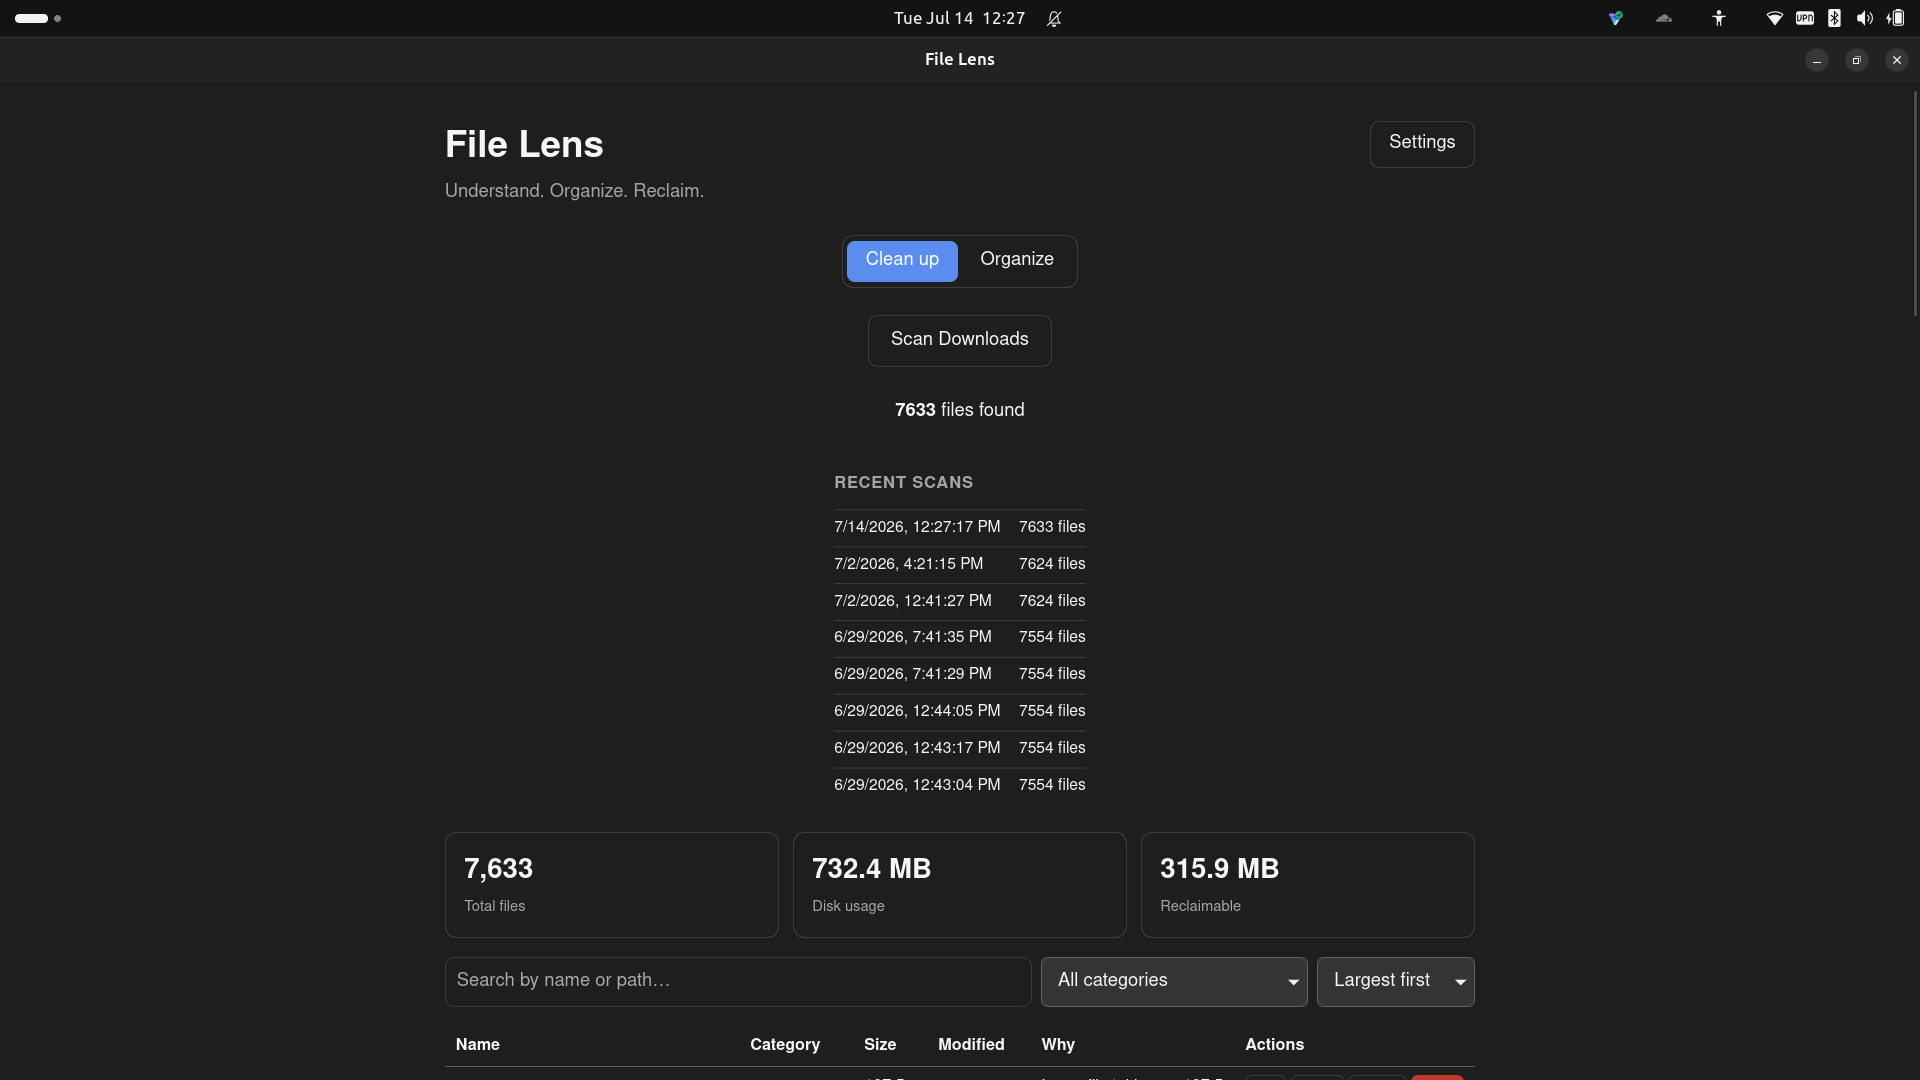
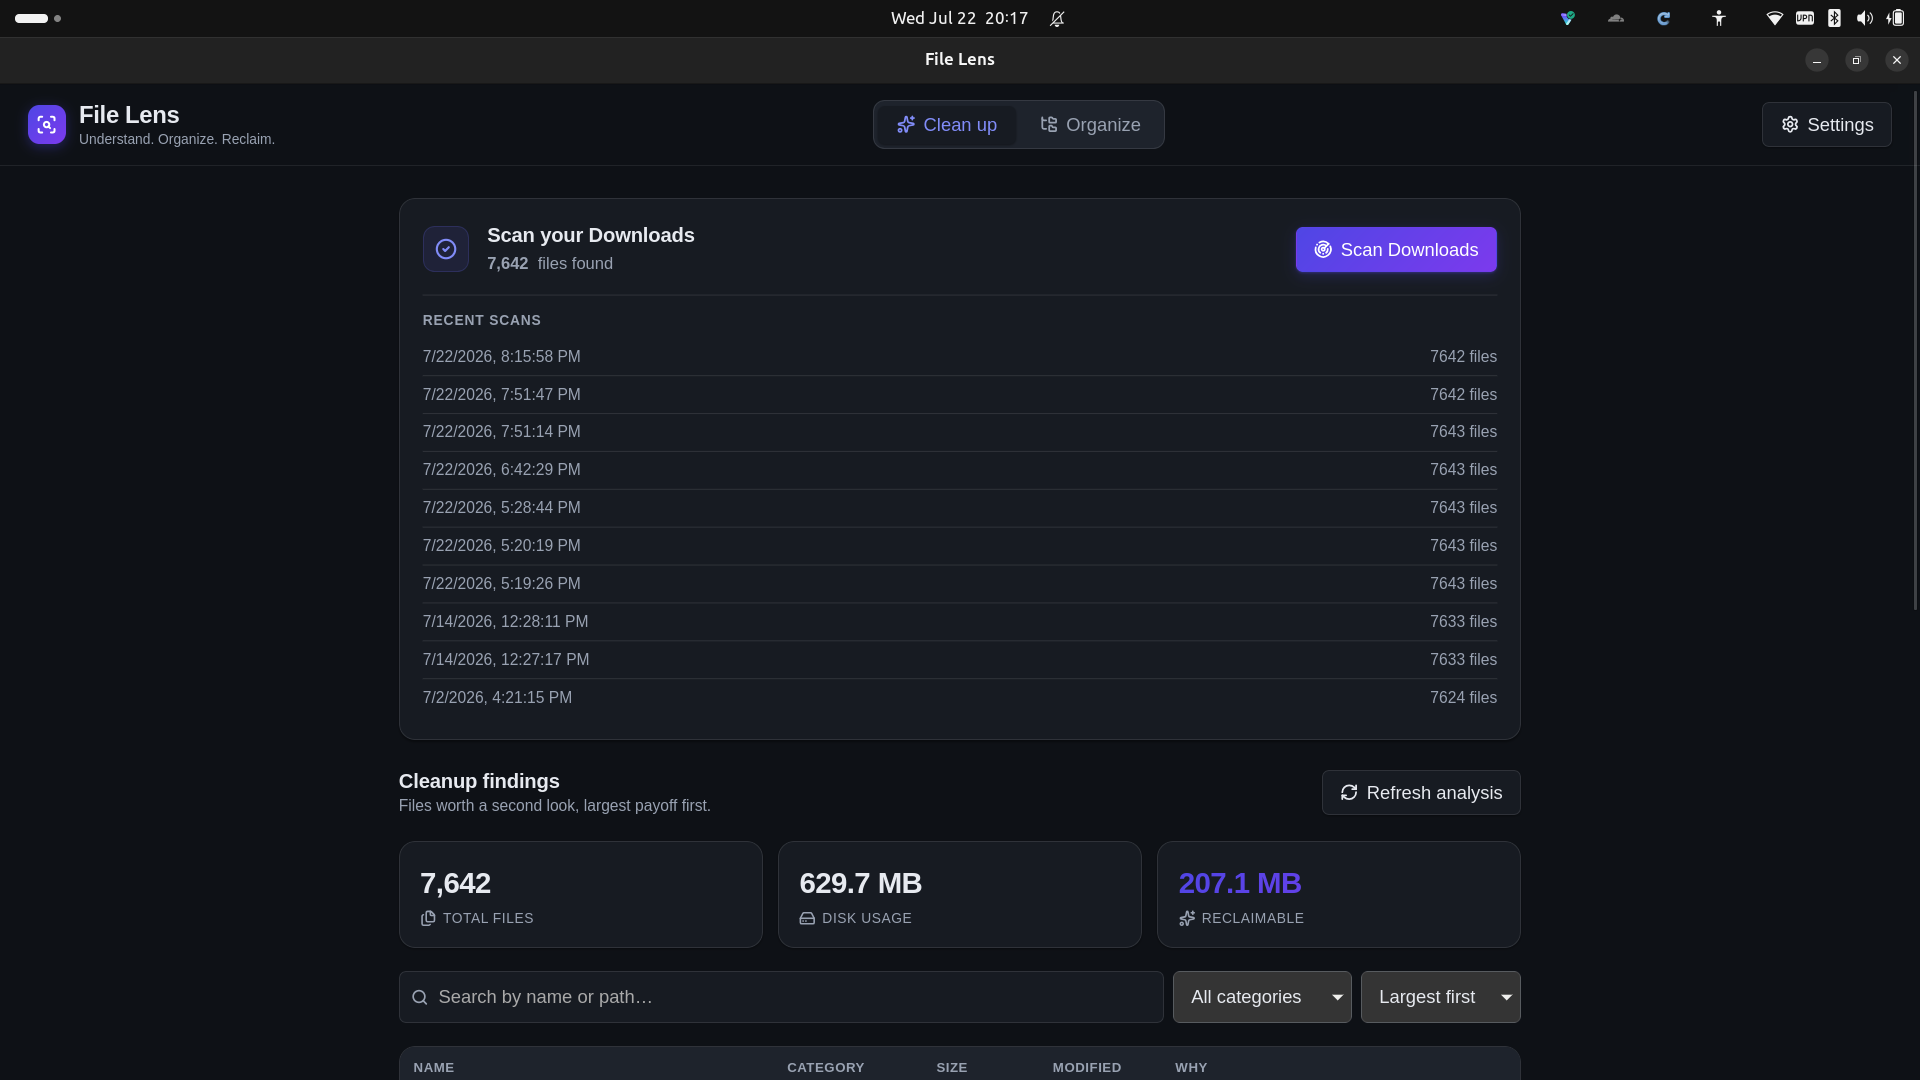
Update the documentation and screenshots for the new interface.
Replace the screenshots with captures of the current build, named for
what they show, and drop the three that no longer have a matching view.

README: add an Interface section covering the tone system, shared
light/dark tokens, Radix accessibility, skeletons, and the reduced-motion
policy. List the four new frontend libraries with the reason for each,
and note that styling stays plain CSS with custom properties.

ARCHITECTURE: correct four sections that no longer described the code.
The accessibility notes still documented useModalA11y, which has been
deleted; "UI library: none" was no longer true. Add a Design system
section for the tokens, tones, base element styles, and primitives, and
record why shadcn/ui and Tailwind were not adopted.

diff --git a/docs/ARCHITECTURE.md b/docs/ARCHITECTURE.md
@@ -46,7 +46,8 @@ type. Shared, cross-feature building blocks live under `shared/`.
 | `shared/ipc/`      | Typed wrappers around Tauri commands (`client.ts`, `commands.ts`).   |
 | `shared/config/`   | Typed access to build-time env config.                               |
 | `shared/logging/`  | Frontend logger (forwards to the shared log sinks).                  |
-| `styles/`          | Global styles and theme.                                             |
+| `shared/ui/`       | Presentation mapping for domain values (`tones.tsx`: category/kind → tone + icon). |
+| `styles/`          | Global styles, design tokens, and the tone palette.                  |
 
 A feature folder owns its own components, hooks, and types; it only promotes
 something to `components/` or `shared/` once a second feature needs it.
@@ -135,10 +136,12 @@ The app never permanently deletes. "Trash" uses the `trash` crate to move a
 file to the OS Recycle Bin (recoverable from there), and the backend refuses to
 trash anything outside the Downloads folder (`is_within`, unit-tested) and drops
 the file from the inventory afterwards. Trashing always requires confirmation
-via an in-app dialog (a React component — no extra dependency).
+via an in-app dialog (`components/Modal.tsx`, built on Radix Dialog).
 
 Ignoring a recommendation adds the path to `ignored_paths`; analysis excludes
-those paths, and the action is reversible (an inline **Undo**, or `unignore`).
+those paths, and the action is reversible — the confirmation toast carries an
+**Undo** action that calls `unignore`, so the reversal sits on the feedback for
+the action that caused it.
 Reveal-in-folder uses the existing opener plugin; file info is read from the
 database for a read-only preview. Action wiring lives in `useCleanup`, which
 refreshes the analysis after any inventory-changing action.
@@ -177,23 +180,56 @@ Startup logic lives in composition points, not in presentational components:
 Installer metadata and icons in `tauri.conf.json` drive the native installers and
 the OS application entries; `tauri-plugin-autostart` provides login autostart.
 
+## Design system (cross-cutting)
+
+`src/styles/global.css` is the whole visual language: tokens, base element
+styles, and shared primitives. Feature stylesheets handle layout only. The rule
+is that nothing declares a raw colour, radius, or shadow outside this file.
+
+- **Tokens:** surfaces (`--bg`, `--surface`, `--surface-2`, `--hover`), text
+  (`--fg`, `--muted`), lines (`--border`, `--border-strong`), intent
+  (`--accent`, `--danger`, `--success`, each with an `-fg`/`-soft` pair), plus
+  radius, shadow, and motion scales. Defined for light and dark (by OS
+  preference and via the `data-theme` override).
+- **Tones:** nine named tones (`slate`, `indigo`, `violet`, `blue`, `teal`,
+  `emerald`, `amber`, `orange`, `rose`) declared as `[data-tone="…"]`, each
+  carrying `--tone-rgb` (tinted at low opacity for fills) and `--tone-fg` (the
+  readable text stop, which flips in dark mode). `shared/ui/tones.tsx` maps
+  domain values to them — every `FindingCategory` and `FileKind` gets a tone and
+  an icon. **A category's colour is defined once** and applies to its table chip,
+  summary chip, and plan row together.
+- **Element base styles:** `button`, `input`/`select`/`textarea`, and
+  `.data-table` are styled once here, so every feature inherits the same
+  hover/active/disabled/focus states without redeclaring them.
+- **Primitives:** `.stat`, `.chip`, `.banner`, `.empty`, `.skeleton`,
+  `.table-wrap`, `.menu`, `.tooltip` — shared classes rather than components,
+  since they carry no behaviour.
+
 ## Polish (cross-cutting)
 
-- **Theming:** a small set of CSS custom properties (`--bg`, `--fg`,
-  `--surface`, `--border`, `--muted`, `--accent`, `--danger`) defined in
-  `global.css` for light and dark (by OS preference and via the `data-theme`
-  override). Component CSS references the tokens, so dark mode is consistent and
-  one change re-themes everything.
-- **Accessibility:** global `:focus-visible` outlines; modals share
-  `useModalA11y` (focus-in + Escape, also deduping that logic); `aria-label`s on
-  unlabeled controls; `role="alert"`/`aria-live` on errors and scan progress.
-- **Motion:** subtle modal fade/scale animations, all disabled under
-  `prefers-reduced-motion`.
+- **Accessibility:** dialogs, dropdown menus, and tooltips are built on
+  [Radix](https://www.radix-ui.com) primitives, which supply focus trapping,
+  scroll locking, Escape handling, roving-focus keyboard navigation, and ARIA
+  wiring. (This replaced a hand-rolled `useModalA11y` hook that focused the
+  dialog but did not trap focus.) Plus global `:focus-visible` outlines,
+  `aria-label`s on unlabeled controls, and `role="alert"`/`aria-live` on errors
+  and scan progress.
+- **Feedback:** transient, single-item results are toasts (`sonner`) and carry
+  their own actions, such as Undo. Persistent states that must stay on screen —
+  a failed analysis, a failed duplicate scan — remain inline `.banner` elements.
+- **Motion:** CSS handles hover, press, and modal enter. Framer Motion is used
+  only where CSS cannot reach: exit animations for rows removed by trash/ignore
+  (`AnimatePresence`), the sliding workflow indicator (`layoutId`), and the view
+  cross-fade. `<MotionConfig reducedMotion="user">` wraps the app, and the CSS
+  `prefers-reduced-motion` block neutralises durations and transforms.
 - **Performance:** the dashboard's filter/sort/paginate runs in a `useMemo`
-  keyed on report + controls.
-- **Responsive:** overview cards collapse to one column and the findings table
-  scrolls horizontally on narrow windows.
-- **Loading:** a shared `Spinner` for scan progress and analysis loading.
+  keyed on report + controls. Row actions collapse into one menu per row, so a
+  50-row page renders 50 triggers rather than 200 buttons.
+- **Responsive:** overview cards collapse to one column, the header wraps with a
+  full-width workflow switch, and wide tables scroll inside `.table-wrap`.
+- **Loading:** `Spinner` for inline progress; `.skeleton` placeholders that
+  mirror the final layout for the dashboard, organization plan, and file
+  preview, so nothing shifts when data lands.
 
 ## IPC surface
 
@@ -227,8 +263,13 @@ one duplicate run happen at a time.
   plugins. Rust uses the built-in `rustfmt` and `clippy`.
 - **State management: React built-ins for now.** No Redux/Zustand until there is
   genuinely shared client state that hooks + context cannot handle cleanly.
-- **UI library: none.** Added only when a screen genuinely needs one, to avoid
-  premature dependencies.
+- **UI libraries: behaviour, not styling.** Radix supplies accessible dialog,
+  dropdown, and tooltip *behaviour*; `lucide-react` supplies icons; `sonner`
+  supplies toasts; `framer-motion` supplies the animations CSS cannot express.
+  All styling stays in the project's own CSS. A full component framework
+  (shadcn/ui and therefore Tailwind) was deliberately **not** adopted: it would
+  mean replacing every stylesheet with utility classes to obtain design tokens
+  and primitives this codebase already has.
 - **Env config: Vite's native `.env`.** No extra library; access is centralised
   and typed in `shared/config/env.ts`.
 - **Logging: `tauri-plugin-log`.** Frontend and backend logs share the same

diff --git a/README.md b/README.md
@@ -82,8 +82,10 @@ File Lens addresses this with three ideas:
 
 **Cleanup**
 - Move files to the system Recycle Bin (with confirmation), ignore a
-  recommendation (with undo), reveal a file in the system file manager, and view
-  full file details.
+  recommendation, reveal a file in the system file manager, and view full file
+  details.
+- Ignoring a file raises a toast with **Undo** attached, so reversing the action
+  never means hunting for a separate control.
 
 **Smart Organization**
 - Classify loose files into category folders (Documents, Images, Videos, Audio,
@@ -98,6 +100,22 @@ File Lens addresses this with three ideas:
   database while a fresh scan runs in the background; the dashboard refreshes
   when it completes. Scanning is asynchronous and never blocks the window.
 
+**Interface**
+- A semantic colour system: every finding category and destination folder has its
+  own tone and icon, so a column of results is scannable before it is read.
+  Colour marks meaning — status, conflicts, the reclaimable total — rather than
+  decorating.
+- Light and dark themes share one set of design tokens; the palette is defined
+  once and every surface, tint, and pill derives from it.
+- Accessible dialogs, menus, and tooltips built on
+  [Radix](https://www.radix-ui.com) primitives: real focus traps, full keyboard
+  navigation, and correct ARIA wiring.
+- Loading skeletons that mirror the final layout, illustrated empty states, and
+  non-intrusive toasts for feedback.
+- Motion is used sparingly and honours `prefers-reduced-motion`: rows animate out
+  when trashed, the workflow indicator slides between tabs, and views
+  cross-fade.
+
 **Settings**
 - Configure the Downloads folder, age and large-file thresholds, ignored folders
   and extensions, and theme (system, light, or dark).
@@ -109,12 +127,30 @@ File Lens addresses this with three ideas:
 
 ## Screenshots
 
-| View | Preview |
-| ---- | ------- |
-| Dashboard | ![Dashboard](docs/images/dashboard.png) |
-| Scanning and history | ![Scanning and history](docs/images/scanning.png) |
-| Category filter | ![Category filter](docs/images/scan-history.png) |
-| Organization plan | ![Organization plan](docs/images/organization-plan.png) |
+**Cleanup findings** — every finding carries a colour-coded category and a
+plain-language reason. Row actions collapse into a single menu.
+
+![Cleanup findings](docs/images/cleanup-findings.png)
+
+**Verified duplicates** — grouped by content hash, with the reclaimable total
+per group.
+
+![Verified duplicates](docs/images/duplicates.png)
+
+**Organize** — the plan summary counts what will move, where it will go, and how
+many naming conflicts need a decision.
+
+![Organize overview](docs/images/organize-overview.png)
+
+**Organization plan** — an editable table of proposed moves. Change a
+destination, skip a file, or resolve a conflict; the execute bar follows you down
+the page and the session lands in the history below, ready to undo.
+
+![Organization plan](docs/images/organization-plan.png)
+
+**Confirmation** — nothing touches the filesystem without an explicit yes.
+
+![Confirmation dialog](docs/images/confirm-dialog.png)
 
 ---
 
@@ -183,13 +219,18 @@ For a deeper explanation, see [docs/ARCHITECTURE.md](docs/ARCHITECTURE.md),
 | [Tauri 2](https://tauri.app) | Desktop shell | Native windows with a Rust backend and a small footprint; keeps the UI sandboxed from the filesystem. |
 | Rust | Backend logic | Memory safety and strong typing for the code that touches user files. |
 | React 19 + TypeScript | Frontend | A typed, component-based UI with a large ecosystem. |
+| [Radix UI](https://www.radix-ui.com) | Accessible primitives | Unstyled dialog, dropdown, and tooltip behaviour — focus management and ARIA done correctly, styled entirely by the project's own CSS. |
+| [Lucide](https://lucide.dev) | Icons | Consistent, tree-shakeable icon set; only the icons actually imported are bundled. |
+| [Framer Motion](https://motion.dev) | Animation | Exit animations and shared-layout transitions that CSS alone cannot express. Hover and press states remain plain CSS. |
+| [Sonner](https://sonner.emilkowal.ski) | Toasts | Compact, themeable notifications that carry their own actions, such as Undo. |
 | [Vite](https://vitejs.dev) | Build tooling | Fast dev server and bundling, and the basis for testing. |
 | SQLite (via `rusqlite`, bundled) | Storage | Embedded, zero-configuration persistence with no external service; the bundled build needs no system SQLite. |
 | [Biome](https://biomejs.dev) | Lint + format | A single fast tool for both, replacing ESLint and Prettier. |
 | [Vitest](https://vitest.dev) | Frontend tests | Vite-native test runner for the pure frontend logic. |
 
 State management uses React's built-in hooks and composition; there is no
-external state library.
+external state library. Styling is plain CSS with custom properties — no CSS-in-JS
+and no utility-class framework — so the design tokens stay readable in one file.
 
 ---
 
@@ -294,9 +335,11 @@ file-lens/
 ├── src/                      # React + TypeScript frontend
 │   ├── features/             # Feature modules: scan, analysis, dashboard,
 │   │                         #   cleanup, duplicates, organization, settings
-│   ├── components/           # Shared UI primitives
-│   ├── shared/               # Types, IPC command layer, formatting, logging
-│   └── styles/               # Global styles and theme tokens
+│   ├── components/           # Shared UI primitives: Modal, RowActions, Tip,
+│   │                         #   Chip, Spinner
+│   ├── shared/               # Types, IPC command layer, formatting, logging,
+│   │                         #   ui/ (category and folder tone mapping)
+│   └── styles/               # Global styles, design tokens, and the tone palette
 ├── src-tauri/                # Rust backend
 │   └── src/                  # filesystem, scanning, database, analysis,
 │                             #   dedup, cleanup, organization, settings
@@ -321,6 +364,13 @@ These principles are reflected in the current codebase:
   typed command boundary between them.
 - **Modular, feature-first design.** Code is grouped by feature, not by technical
   layer.
+- **One source of truth for the visual language.** Colour, spacing, radius, and
+  elevation are declared as tokens in `src/styles/global.css`; feature stylesheets
+  handle layout only. A category's colour is defined once and applies everywhere
+  it appears.
+- **Accessibility as a baseline.** Keyboard navigation, visible focus, correct
+  ARIA roles, and reduced-motion support are treated as requirements, not
+  polish.
 
 ---
 